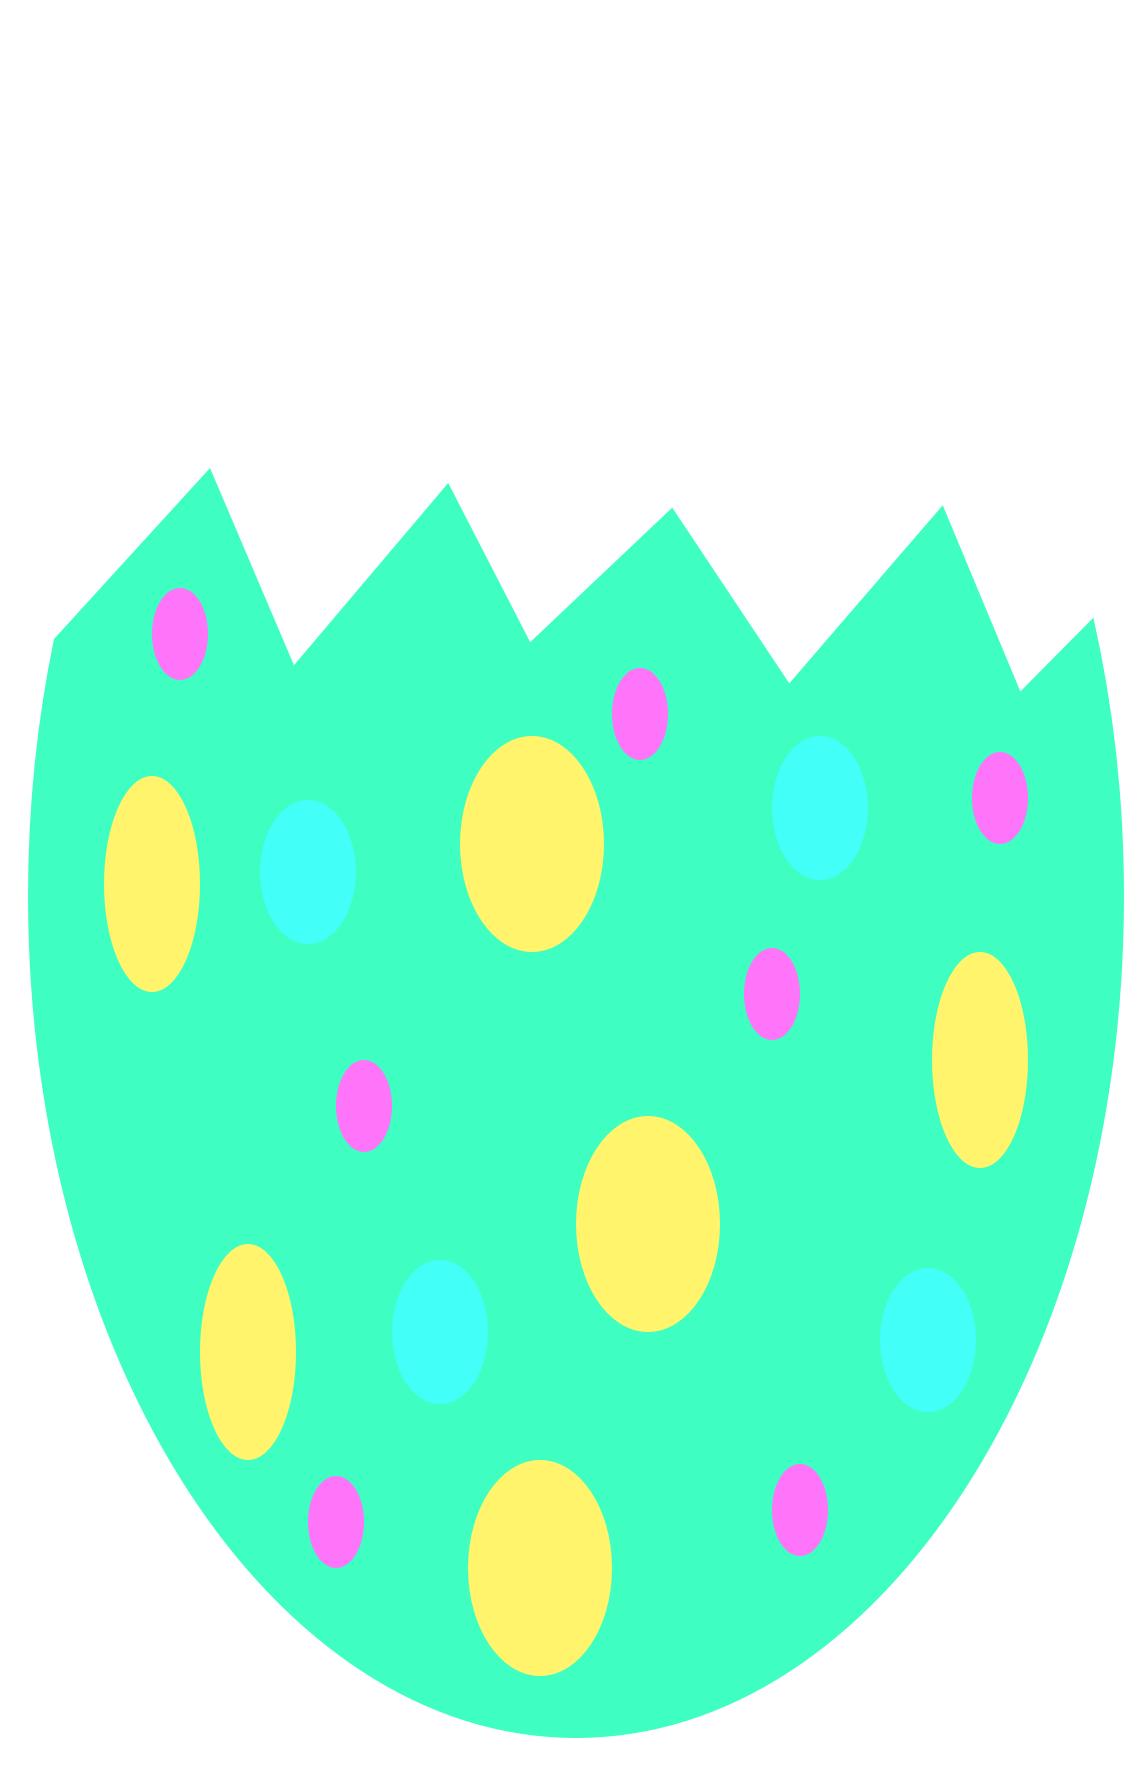
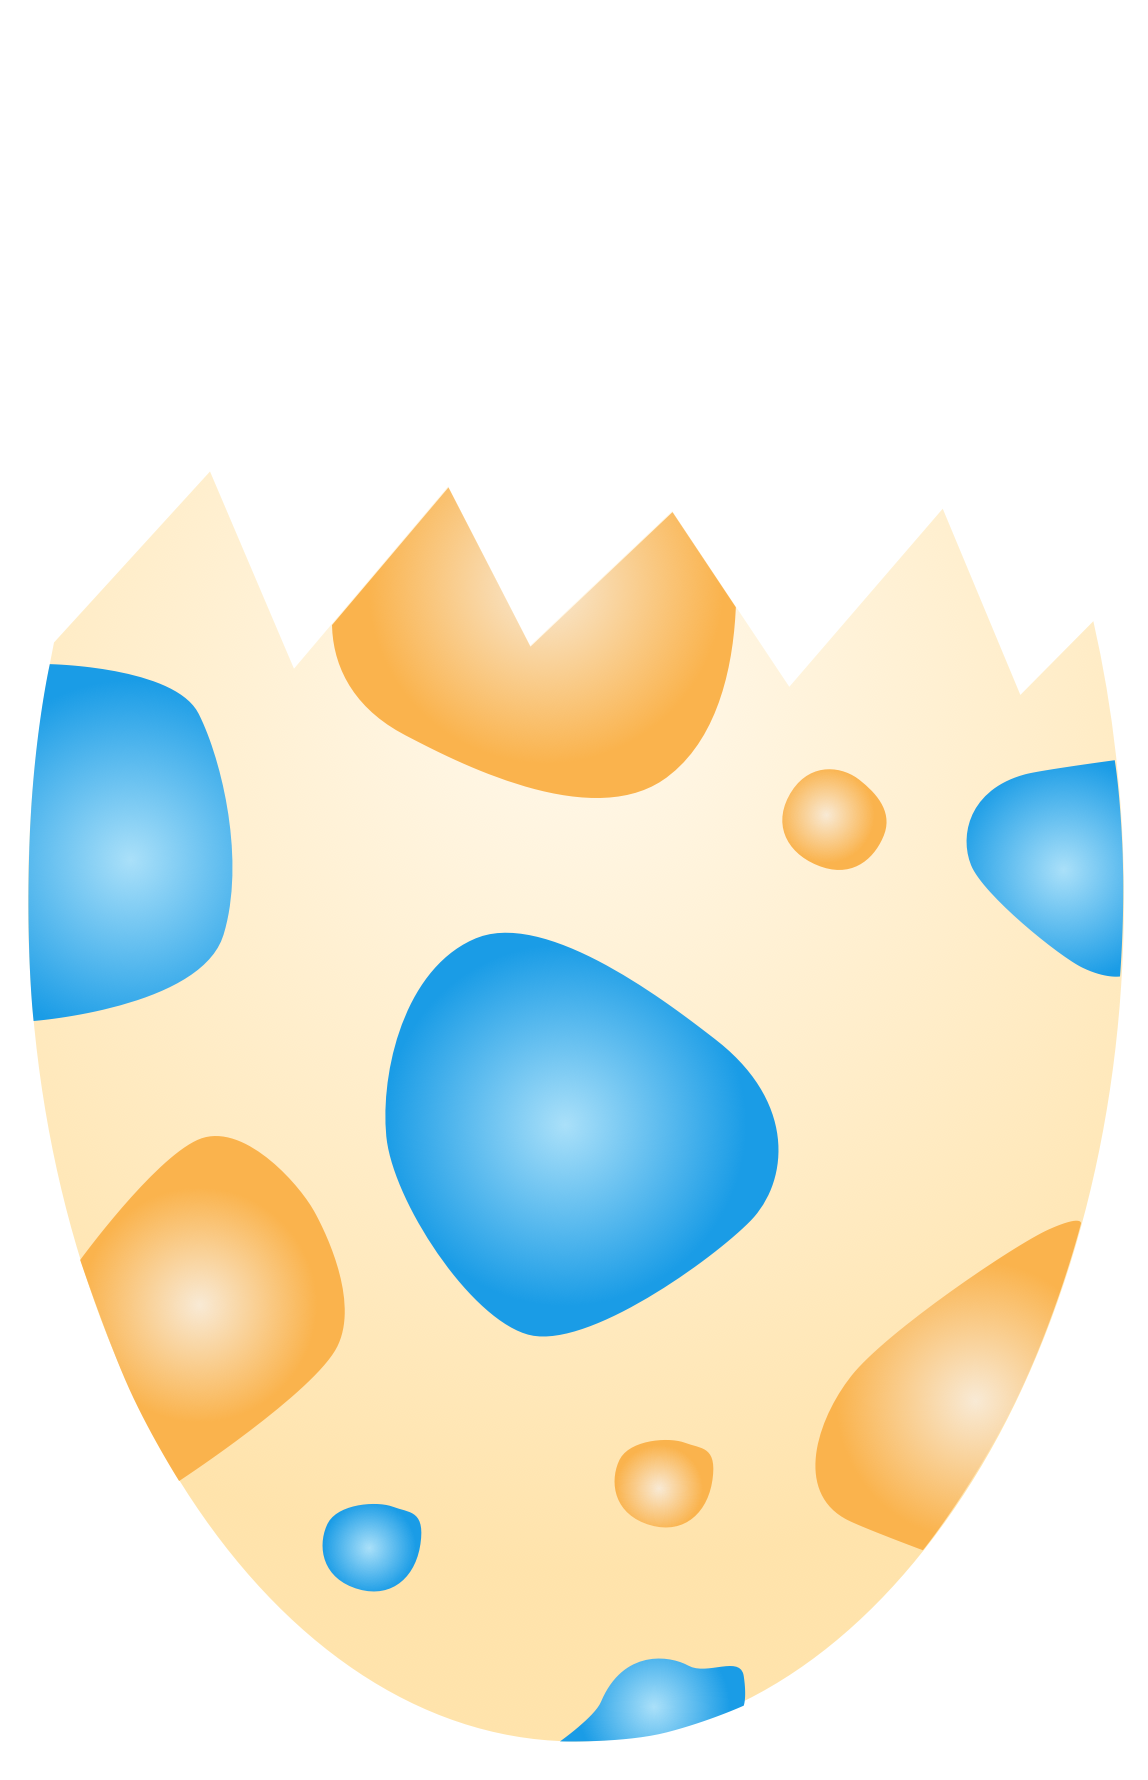
fixed bug and changed egg color

diff --git a/style/style.css b/style/style.css
@@ -14,7 +14,6 @@ body {
   background-color: #6F6F71;
   font-family: "FunSized", sans-serif;
 }
-
 #nav {
   font-family: "Karla", Helvetica, sans-serif;
   width: 100%;
@@ -37,54 +36,31 @@ body {
   }
 .line { border-right: 1px solid #ccc;}
 
-
-.egg-bottom {
-  position: absolute;
-  width: 20%;
-  height: auto;
-  top: 12vw;
-  margin-left: 40%;
-  animation: wigglingdown 5s ease forwards;
-}
-.egg-top {
-  position: absolute;
-  width: 20%;
-  height: auto;
-  top: 12vw;
-  left: 40%;
-  animation: wigglingup 5s ease forwards;
-}
-.cat {
-  position: absolute;
-  width: 30%;
-  /* max-width: 200px; */
-  height: auto;
-  top: 151px;
-  left: 35%;
-  animation: grow 1s ease both 5s;
-}
 @keyframes grow {
   0% {transform: scale(.33);}
   100% {transform: scale(1);}
 }
-.cat-angry {
-  position: absolute;
-  opacity: 0;
-  width: 30%;
-  max-width: 500px;
-  height: auto;
-  top: 151px;
-  left: 35%;
-  animation: grow 1s ease both 5s;
-}
-.twitter {
-  width: 10%;
-  height: auto;
-  position: absolute;
-  top: 10px;
-  left: 43%;
-  animation: fly 20s infinite ease both 8s;
-}
+@keyframes wigglingdown {
+   0% {transform: rotate(5deg);}
+   10% {transform: rotate(-3deg);}
+
+   15% {transform: scaleY(1.1)}
+   20% {transform: rotate(5deg);}
+   25% {transform: rotate(-4deg);}
+
+   33% {transform: scaleY(1.2)}
+   50% {transform: rotate(5deg);}
+   55%% {transform: rotate(-4deg);}
+
+   60% {transform: scaleY(1.3)}
+   75% {transform: rotate(-3deg);}
+   85% {transform: scaleY(1.5);}
+
+   100% {
+     transform: rotate(0deg);
+     transform: translateY(1000px);
+     }
+ }
 @keyframes fly {
   0% {left: 100%;
       top: 100px;}
@@ -117,18 +93,94 @@ body {
         top: 200px;}
 
 }
+/* Slide in textboxes */
+@keyframes slide1 {
+  0% {transform: translateX(-700px)
+    translateY(-153px);
+  }
+  100% {transform: translateX(0px)
+    translateY(-153px);}
+}
 
-/* .box {
+@keyframes slide2 {
+  0% {transform: translate(-700px)
+     /* translateY(-153px); */
+   }
+  100% {transform: translate(0px)
+    /* translateY(-153px); */
+  }
+}
+
+@keyframes slide3 {
+  0% {transform: translateX(-700px)
+    /* translateY(-153px); */
+  }
+  100% {transform: translateX(0px)
+    /* translateY(-153px); */
+  }
+}
+
+@keyframes slide4 {
+  0% {transform: translateX(800px) translateY(-153px);}
+  100% {transform: translateX(0px) translateY(-153px);}
+}
+
+@keyframes slide5 {
+  0% {transform: translateX(800px) translateY(-153px);}
+  100% {transform: translateX(0px) translateY(-153px);}
+}
+
+@keyframes slide6 {
+  0% {transform: translateX(800px) translateY(-153px);}
+  100% {transform: translateX(0px) translateY(-153px);}
+}
+
+
+.egg-bottom {
   position: absolute;
-  width: 15%;
-  height: 11%;
-  top: 30vw;
-  left: 36%;
-  border: 50px solid;
-  background: black;
+  width: 20%;
+  height: auto;
+  top: 12vw;
+  margin-left: 40%;
+  animation: wigglingdown 5s ease forwards;
+}
+.egg-top {
+  position: absolute;
+  width: 20%;
+  height: auto;
+  top: 12vw;
+  left: 40%;
+  animation: wigglingup 5s ease forwards;
+}
+.cat {
+  position: absolute;
+  width: 30%;
+  /* max-width: 200px; */
+  height: auto;
+  top: 151px;
+  left: 35%;
+  animation: grow 1s ease both 5s;
+}
+
+.cat-angry {
+  position: absolute;
   opacity: 0;
-  border-radius: 3em;
-} */
+  width: 30%;
+  max-width: 500px;
+  height: auto;
+  top: 151px;
+  left: 35%;
+  animation: grow 1s ease both 5s;
+}
+.twitter {
+  width: 10%;
+  height: auto;
+  position: absolute;
+  top: 10px;
+  left: 43%;
+  animation: fly 20s infinite ease both 8s;
+}
+
 
 .paw-right {
   position: absolute;
@@ -185,7 +237,6 @@ body {
 
 /* Textbox 1 start */
   .textbox1 {
-
     animation: slide1 1s ease backwards 5s;
   }
   .textbox1:hover {
@@ -377,47 +428,6 @@ body {
   100% {transform: translateY(0px);}
 }
 
-/* Slide in textboxes */
-@keyframes slide1 {
-  0% {transform: translateX(-700px)
-    /* translateY(-153px); */
-  }
-  100% {transform: translateX(0px)
-    /* translateY(-153px);} */
-}
-
-@keyframes slide2 {
-  0% {transform: translateX(-700px)
-     /* translateY(-153px); */
-   }
-  100% {transform: translateX(0px)
-    /* translateY(-153px); */
-  }
-}
-
-@keyframes slide3 {
-  0% {transform: translateX(-700px)
-    /* translateY(-153px); */
-  }
-  100% {transform: translateX(0px)
-    /* translateY(-153px); */
-  }
-}
-
-@keyframes slide4 {
-  0% {transform: translateX(800px) translateY(-153px);}
-  100% {transform: translateX(0px) translateY(-153px);}
-}
-
-@keyframes slide5 {
-  0% {transform: translateX(800px) translateY(-153px);}
-  100% {transform: translateX(0px) translateY(-153px);}
-}
-
-@keyframes slide6 {
-  0% {transform: translateX(800px) translateY(-153px);}
-  100% {transform: translateX(0px) translateY(-153px);}
-}
 
 
 
@@ -471,27 +481,7 @@ body {
       }
   }
 
-  @keyframes wigglingdown {
-     0% {transform: rotate(5deg);}
-     10% {transform: rotate(-3deg);}
 
-     15% {transform: scaleY(1.1)}
-     20% {transform: rotate(5deg);}
-     25% {transform: rotate(-4deg);}
-
-     33% {transform: scaleY(1.2)}
-     50% {transform: rotate(5deg);}
-     55%% {transform: rotate(-4deg);}
-
-     60% {transform: scaleY(1.3)}
-     75% {transform: rotate(-3deg);}
-     85% {transform: scaleY(1.5);}
-     /* 99% {transform: opacity(1);} */
-     100% {
-       transform: rotate(0deg);
-       transform: translateY(1000px);
-       }
-   }
 
 
 /* changes the width of the cat when the screen gets below 700px */
@@ -559,7 +549,6 @@ body {
         left: 36%;
       }
       .bubble1 {
-
         width: 35%;
         height: auto;
         top: 4vw;

diff --git a/index.html b/index.html
@@ -15,8 +15,8 @@
     </ul>
 
 
-      <img src="image/cat-happy.png" class="cat">
-      <img src="image/thecat.png" class="cat-angry">
+      <!-- <img src="image/cat-happy.png" class="cat"> -->
+      <!-- <img src="image/thecat.png" class="cat-angry"> -->
 
       <img src="image/egg-top.png" class="egg-top">
       <img src="image/egg-bottom.png" class="egg-bottom">
